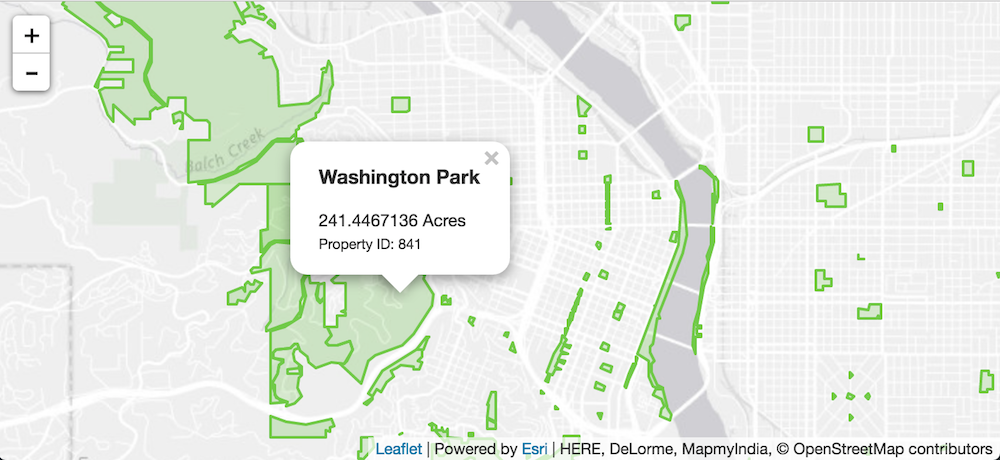
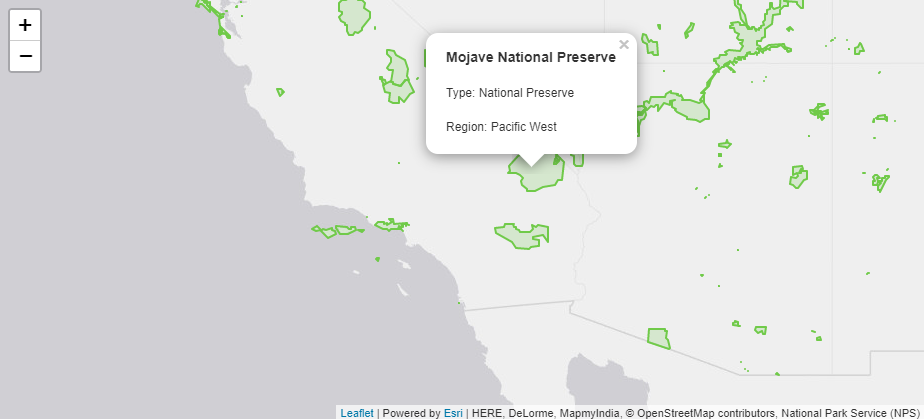
updated sample code and issue template (#1288)
* updated sample code and issue template

* clarify link

* Update .github/ISSUE_TEMPLATE/bug_report.md

diff --git a/README.md b/README.md
@@ -70,17 +70,18 @@ The easiest way to get started is to load Esri Leaflet via [CDN](https://unpkg.c
   <body>
     <div id="map"></div>
     <script>
-      var map = L.map('map').setView([45.528, -122.680], 13);
+      const map = L.map('map').setView([34.39, -117.189], 6);
       L.esri.basemapLayer("Gray").addTo(map);
 
-      var parks = L.esri.featureLayer({
-        url: "https://services.arcgis.com/rOo16HdIMeOBI4Mb/arcgis/rest/services/Portland_Parks/FeatureServer/0",
+      // https://www.arcgis.com/home/item.html?id=8b98df1300b749eabc3142864bb9a119
+      const parks = L.esri.featureLayer({
+        url: "https://services2.arcgis.com/FiaPA4ga0iQKduv3/arcgis/rest/services/NPS_Park_Unit_Boundaries/FeatureServer/0",
         style: function () {
           return { color: "#70ca49", weight: 2 };
         }
       }).addTo(map);
 
-      var popupTemplate = "<h3>{NAME}</h3>{ACRES} Acres<br><small>Property ID: {PROPERTYID}<small>";
+      const popupTemplate = "<h3>{UNIT_NAME}</h3><p>Type: {UNIT_TYPE}</p><p>Region: {REGION}</p>";
 
       parks.bindPopup(function(e){
         return L.Util.template(popupTemplate, e.feature.properties)

diff --git a/.github/ISSUE_TEMPLATE/bug_report.md b/.github/ISSUE_TEMPLATE/bug_report.md
@@ -21,11 +21,15 @@ A clear and concise description of what the bug is.
 - Describe what occurs in your code.
 - Specifically, what seems to work differently than you intended?
 - Provide any error messages you see in the console.
-- If possible, create a [jsbin](http://jsbin.com/dagilag/edit?html,output) that demonstrates the problem.
+- Please create a [jsbin](https://jsbin.com/yewimat/edit?html,output) that demonstrates the problem.
 
 ## To Reproduce
 
-Please share the steps to reproduce the behavior.
+Please share and fill in the steps below to reproduce the behavior.
+
+**THIS IS REQUIRED** - If you do not provide the steps for others to reproduce the issue you're seeing, it is impossible for them to assist you. Please create a [jsbin](https://jsbin.com/yewimat/edit?html,output) that demonstrates the problem and include the steps to see the issue:
+
+[Example](https://LINK_TO_YOUR_JS_BIN)
 
 1. Go to '...'
 2. Click on '....'
